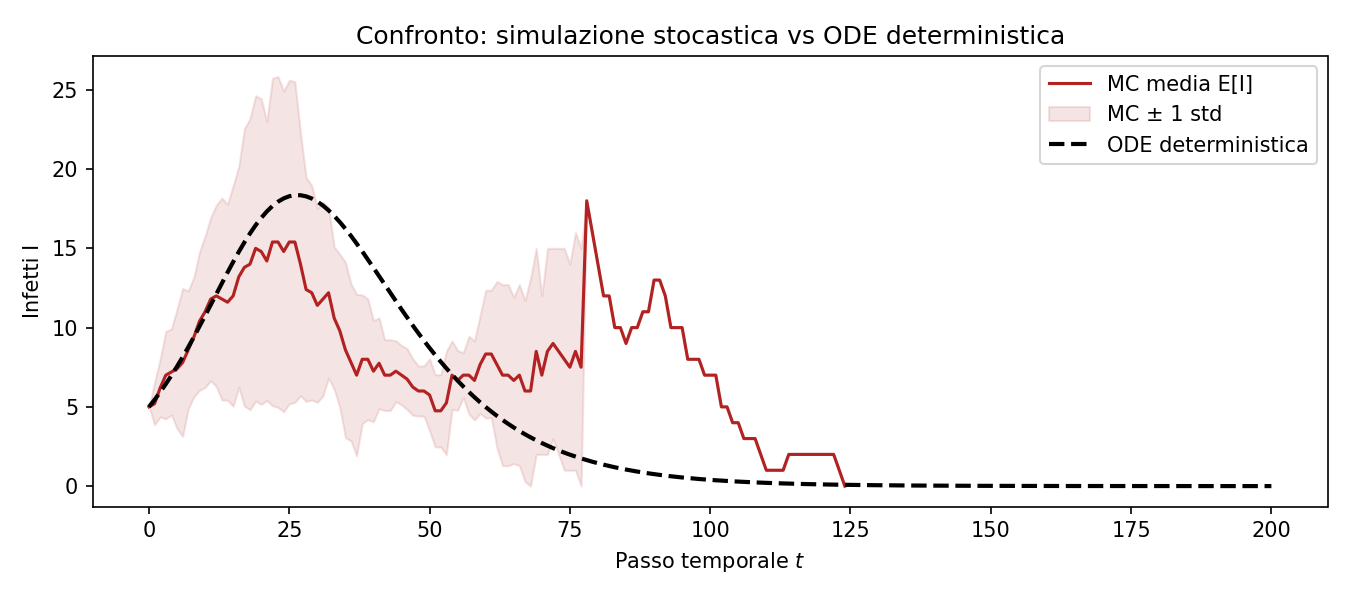
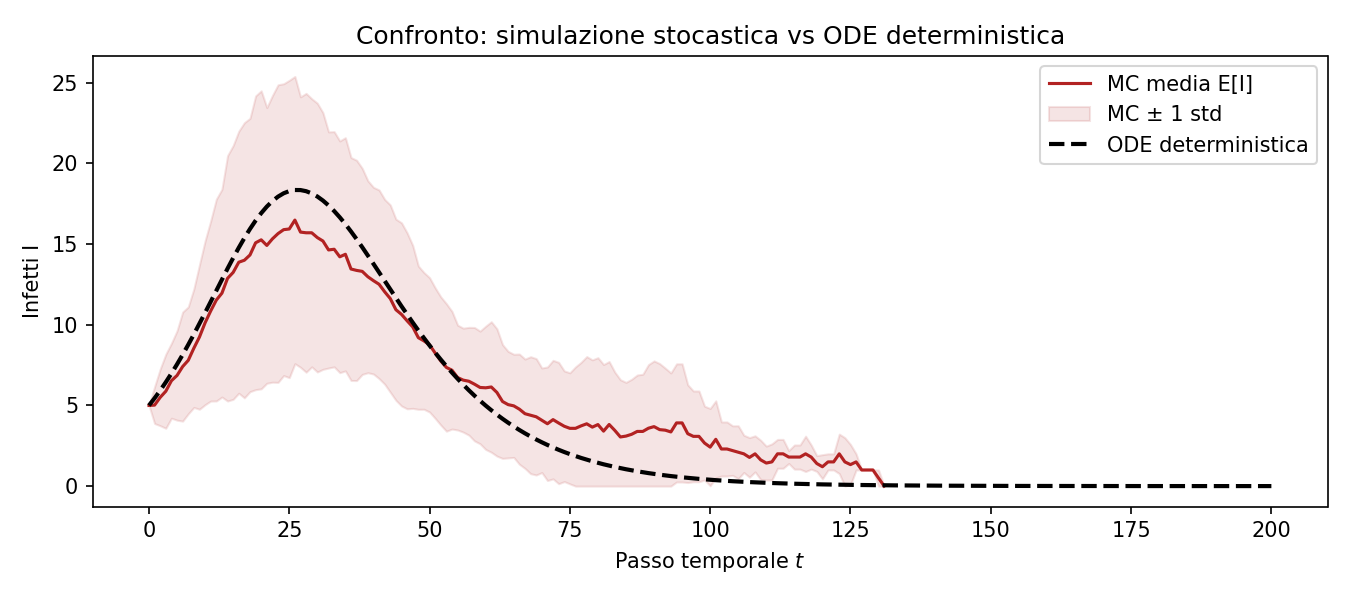
chore: organize project — sync README, pyproject.toml, clean notebooks

diff --git a/README.md b/README.md
@@ -37,7 +37,8 @@ sir-markov-chain/
 │   ├── analysis.py       # Statistiche + ODE deterministica
 │   └── sensitivity.py    # Analisi di sensibilità parametri
 ├── notebooks/
-│   └── exploration.ipynb # Analisi esplorativa interattiva
+│   ├── exploration.ipynb        # Analisi esplorativa interattiva
+│   └── pipeline_completo.ipynb  # Pipeline completa (10 sezioni)
 ├── img/                  # Output immagini per la relazione
 ├── plots/                # Output grafici (runtime)
 ├── report/
@@ -45,7 +46,7 @@ sir-markov-chain/
 │   └── presentazione.md  # Presentazione orale con Q&A, checklist, lavagna
 └── tests/
     ├── __init__.py
-    └── test_model.py     # Unit test (11 test: catena SIR, matrice P, edge case)
+    └── test_model.py     # Unit test (12 test: catena SIR, matrice P, edge case)
 ```
 
 ## Parametri del Modello
@@ -58,6 +59,7 @@ sir-markov-chain/
 | Infetti iniziali | I₀ | 5 |
 | Passi temporali | T_MAX | 200 |
 | Simulazioni MC | M | 1000 |
+| Riproduzione base | R₀ = β/γ | 2.0 |
 
 ## Installazione
 